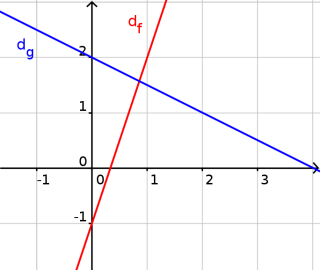
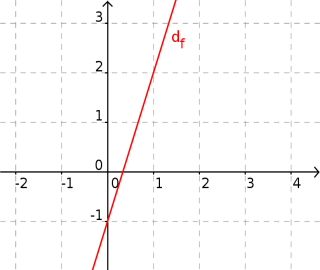
24/02/2025 23h18

diff --git a/script_saisie_mult.js b/script_saisie_mult.js
@@ -3,7 +3,7 @@
 function creer_tab()
 {
         ta = [];
-        for (i = 0; i < 10; i++)
+        for (i = 0; i < nb_pos; i++)
         {
           ta.push(i);
         }
@@ -15,7 +15,7 @@ function creer_tab()
         return ta;
 }
 
-function afficher_enonce(num, localStorage)
+function afficher_enonce(num, localStorage, chemin)
 {
     localS = "'" + localStorage + "'";
     ta = creer_tab();
@@ -23,39 +23,46 @@ function afficher_enonce(num, localStorage)
     for (nq=1; nq<=num; nq++)
     {
         codeHTML = codeHTML + `
-            <div class="form-container">
-                <form id="f` + nq + `">
-                    <div class="question">
-                        <b> ` + nq + `. </b>
-                        ` + tab_enonce[ta[nq]][0] + 
-                        `<br> <p> ` + tab_enonce[ta[nq]][1] + `</p>`;
-        codeHTML = codeHTML +
-                    `
+                <div class="question">
+                    <b> ` + nq + `. </b>
+                        ` + tab_q[ta[nq]] + 
+                        `<br> <img src="` + chemin + `/images/` + tab_im[ta[nq]] + `"/><br><br>`;
+        for (ne=0; ne<nb_prop; ne++)
+        {
+            codeHTML = codeHTML + tab_e[ta[nq]][ne];
+            num_form = (nq - 1) * nb_prop + ne;
+            codeHTML = codeHTML + `
+                    <form id="f` + num_form + `">
                     <input type='text' class='zone_saisie1' id='inp1' autocomplete='off'
-                        onkeypress="javascript:if (event.keyCode == 13) {verif('f` + nq + `', ` + nq + `);return false;}"/>
+                        onkeypress="javascript:if (event.keyCode == 13) {verif('f` + num_form + `', ` + nq + `, ` + ne + `);return false;}"/>
                     `;
+            codeHTML = codeHTML +
+                        `
+                        <div>
+                            <span id='sp1' class='ic_rep'> &emsp; </span>
+                            <input class="bouton1" type="button" value="Valider" onClick="verif('f` + num_form + `', ` + nq + `, ` + ne + `)" />
+                            <br>
+                            <span class='juste2' id="sp2"> &ensp; </span>
+                        </div>
+                    </form><br>`;
+        }
         codeHTML = codeHTML +
-                    `
-                    </div>
-                    <span id='sp1' class='ic_rep'> &emsp; </span>
-                    <input class="bouton1" type="button" value="Valider" onClick="verif('f` + nq + `', ` + nq + `)" />
-                    <br>
-                    <span class='juste2' id="sp2"> &ensp; </span>
-                </form>
-            </div>
-        `;
+                    ` </div>
+                    
+            `;
         codeHTML = codeHTML +
                     `
                     <span id='m1'></span> <br>
                     `;
     }
+    num_q = num * nb_prop;
     codeHTML = codeHTML +
                     `
                     <p>
                         <input id='bv' class="bouton2" type="button" value="Valider l'exercice" onClick="verif_exo(`
                         + localS +
                         `,`
-                        + num + `)" />
+                        + num_q + `)" />
                         <span class="span_exo"></span>
                     </p>
                     `;
@@ -66,7 +73,7 @@ function afficher_enonce(num, localStorage)
 }
 
 
-function verif(nom_form,  k)
+function verif(nom_form,  k, l)
 {
     form = document.forms[nom_form];
     input_saisie = form.querySelector("#inp1");
@@ -74,9 +81,11 @@ function verif(nom_form,  k)
     repon = repon.toLowerCase();
     repon = repon.replace(/ /g,"");
     repon = repon.replace(/,/g,".");
+    repon = repon.toString();
+    repon = eval(repon);
     span_ic = form.querySelector("#sp1");
     span_mes = form.querySelector("#sp2");
-    if (tab_rep[ta[k]] == repon)
+    if (tab_rep[ta[k]][l] == repon)
     {
         span_ic.innerHTML = "<b class='juste'>&#10004;</b>";
         span_mes.innerHTML = `<b class='juste'>Bonne réponse !</b>`;
@@ -84,8 +93,9 @@ function verif(nom_form,  k)
     else
     {
         span_ic.innerHTML = "<b class='faux'>&#10060;</b>";
-        mes_err = `<b class="faux2">` + tab_enonce[ta[k]][2] + `</b>`;
+        mes_err = `<b class="faux2">` + tab_m[l] + `</b>`;
         span_mes.innerHTML = mes_err;
+         MathJax.Hub.Queue(["Typeset", MathJax.Hub]);
     }
 }
 

diff --git a/Seconde/Fonctions/Affines/aff_dro_exo1.js b/Seconde/Fonctions/Affines/aff_dro_exo1.js
@@ -1,44 +1,44 @@
 function definir()
 {
-    hyperlien1 = '<a href="Seconde/Fonctions/Affines/affines_racine.html"><span class="parent">Racine</span></a>';
+    hyperlien1 = '<a href="Seconde/Fonctions/Affines/affines_droite.html"><span class="parent">Droite</span></a>';
     spanLien = document.getElementById('lien1');
     spanLien.innerHTML = hyperlien1;
 
-    nb_questions = 1;
-    nb_prop = 4;
-    nb_pos = 2;
+    nb_questions = 2;
+    nb_prop = 2;
+    nb_pos = 4;
 
-    q = "Soit le graphique suivant : ";
+    q1 = "Soit le graphique suivant : ";
+
+
+    tab_q = [q1, q1, q1, q1];
 
     tab_im = [
-                "aff_dro_exo1_A.png",
-                "aff_dro_exo1_B.png"
+                `aff_dro_exo1_A.png`,
+                `aff_dro_exo1_B.png`,
+                `aff_dro_exo1_C.png`,
+                `aff_dro_exo1_D.png`
             ]
 
-    tab_q = [
-                "Le coefficient directeur de $f$ est : ",
-                "L'ordonnée à l'origine de $f$ est : ",
-                "Le coefficient directeur de $g$ est : ",
-                "L'ordonnée à l'origine de $g$ est : " 
+    e1 = "Le coefficient directeur de $f$ est : ";
+    e2 = "L'ordonnée à l'origine de $f$ est : ";
+
+    tab_e = [
+                [e1, e2],
+                [e1, e2],
+                [e1, e2],
+                [e1, e2] 
             ];
 
     m1 = "C'est la variation en $y$ sur la variation en $x$.";
     m2 = "C'est l'ordonnée de l'intersection avec l'axe des $y$.";
 
-    tab_m = [m1, m2, m1, m2];
+    tab_m = [m1, m2];
 
-    tab_enonce = [
-        ["Soit $f(x)=-4x+6$", q, m],
-        ["Soit $f(x)=2x-5$",  q, m],
-        ["Soit $f(x)=12-2x$",  q, m],
-        ["Soit $f(x)=x-9$",  q, m],
-        ["Soit $f(x)=3x+9$", q, m],
-        ["Soit $f(x)=8-2x$", q, m],
-        ["Soit $f(x)=-4-x$", q, m],
-        ["Soit $f(x)=4x+9$", q, m],
-        ["Soit $f(x)=5x+1$", q, m],
-        ["Soit $f(x)=3x$", q, m]
-    ];
-
-    tab_rep = ["1.5", "2.5", "6", "9", "-3", "4", "-4", "-2.25", "-0.2", "0"];
+    tab_rep = [
+                    ["3", "-1"], 
+                    ["0.25", "1"],
+                    ["-1", "2"],
+                    ["-1", "3"]
+              ];
 }

diff --git a/saisie_mult.html b/saisie_mult.html
@@ -15,7 +15,7 @@
                     script.src = scriptURL;
                     script.onload = function() {
                         // Script principal à exécuter après le script dynamique
-                        mainScript(scriptName);
+                        mainScript(scriptName, cheminName);
                     };
                     document.head.appendChild(script);
                 } else {
@@ -24,9 +24,9 @@
                 }
             };
 
-            function mainScript(scriptName) {
+            function mainScript(scriptName, cheminName) {
                 definir();
-                afficher_enonce(nb_questions, scriptName);
+                afficher_enonce(nb_questions, scriptName, cheminName);
                 MathJax.Hub.Config({
                 extensions: ["tex2jax.js"], jax: ["input/TeX", "output/HTML-CSS"],
                 TeX: { extensions: ["AMSmath.js","AMSsymbols.js","noErrors.js","noUndefined.js"] },

diff --git a/Seconde/Fonctions/Affines/affines_droite.html b/Seconde/Fonctions/Affines/affines_droite.html
@@ -63,8 +63,8 @@
                 </div>
             </li>
             <li>
-                <a href="../../../qcm.html?script=aff_dro_exo1.js&chemin=Seconde/Fonctions/Affines/">
-                    <script type='text/javascript' language='javascript'>fait('aff_ddro_exo1.js');</script>Exercice1</a></span>
+                <a href="../../../saisie_mult.html?script=aff_dro_exo1.js&chemin=Seconde/Fonctions/Affines/">
+                    <script type='text/javascript' language='javascript'>fait('aff_dro_exo1.js');</script>Exercice1</a></span>
                 </a>
             </li>
 

diff --git a/script_qcm.js b/script_qcm.js
@@ -87,6 +87,8 @@ function verif(nom_form,  k)
         span_ic.innerHTML = "<b class='faux'>&#10060;</b>";
         mes_err = `<b class="faux2">` + tab_enonce[ta[k]][2] + `</b>`;
         span_mes.innerHTML = mes_err;
+        // Réactualiser MathJax pour reprocesser les expressions LaTeX
+        MathJax.Hub.Queue(["Typeset", MathJax.Hub]);
     }
 }
 

diff --git a/script_saisie.js b/script_saisie.js
@@ -76,7 +76,6 @@ function verif(nom_form,  k)
     repon = repon.replace(/,/g,".");
     repon = repon.toString();
     repon = eval(repon);
-    alert(repon);
     span_ic = form.querySelector("#sp1");
     span_mes = form.querySelector("#sp2");
     if (tab_rep[ta[k]] == repon)

diff --git a/style.css b/style.css
@@ -149,6 +149,7 @@ form
     font-size: 110%;
     margin: 1em;
     margin-bottom: 0.5em;
+    margin-left: 0.5 em;
     border: 1px solid #555;      
     border-radius: 8px;           
     padding: 0.2rem 0.5rem;        
